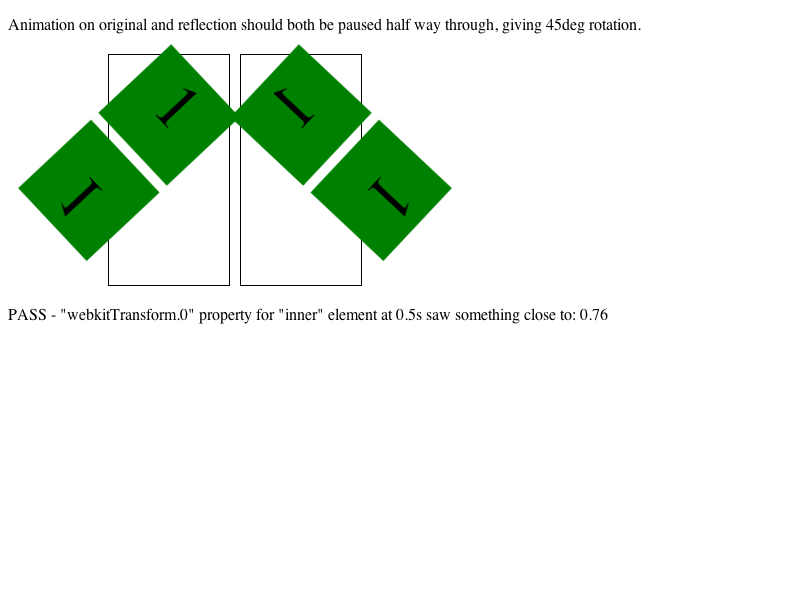
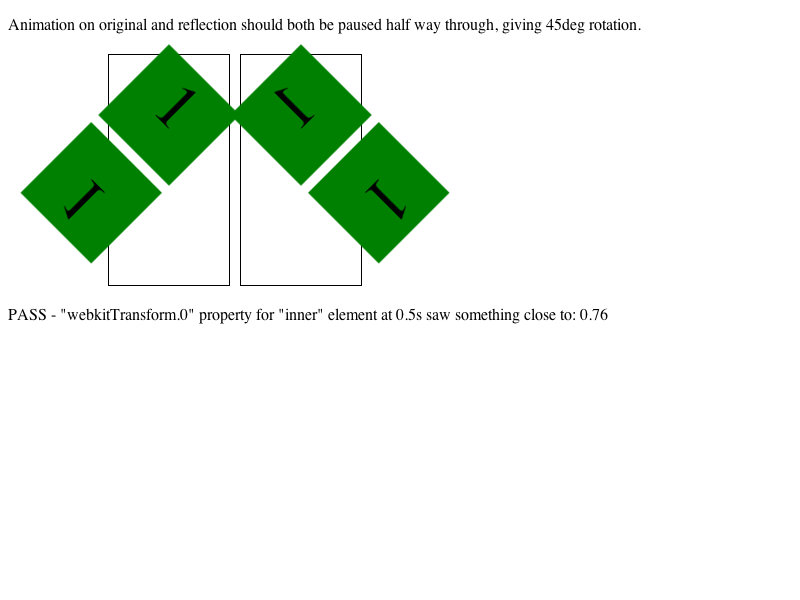
Fix two compositing animation tests to not have flakey pixel results https://bugs.webkit.org/show_bug.cgi?id=83957
Reviewed by Dean Jackson.

Fix these tests to use the pause animation API by providing an animation
name in the expected data. There's no need to start the animations by hand.

* compositing/reflections/animation-inside-reflection.html:
* compositing/reflections/nested-reflection-animated.html:
* platform/mac/compositing/reflections/animation-inside-reflection-expected.png:
* platform/mac/compositing/reflections/nested-reflection-animated-expected.png:

git-svn-id: http://svn.webkit.org/repository/webkit/trunk/LayoutTests@114178 268f45cc-cd09-0410-ab3c-d52691b4dbfc

diff --git a/compositing/reflections/nested-reflection-animated.html b/compositing/reflections/nested-reflection-animated.html
@@ -42,21 +42,18 @@
   <script type="text/javascript" charset="utf-8">
     const expectedValues = [
       // [animation-name, time, element-id, property, expected-value, tolerance]
-      [null, 0.5, "inner", "webkitTransform.0", 0.76, 0.1],
+      ["swing", 0.5, "inner", "webkitTransform.0", 0.76, 0.1],
     ];
     
-    function startAnimation()
-    {
-      document.getElementById('inner').className = 'inner composited animated';
-    }
-
-    runAnimationTest(expectedValues, startAnimation, 'load', false, true /* pixel test */);
+    var pixelTest = true;
+    var disablePauseAPI = false;
+    runAnimationTest(expectedValues, null, null, disablePauseAPI, pixelTest);
   </script>
   </head>
 <body>
   <p>Animation on original and reflection should both be paused half way through, giving 45deg rotation.</p>
   <div class="outer composited">
-    <div id="inner" class="inner composited">
+    <div id="inner" class="inner composited animated">
       1
     </div>
   </div>

diff --git a/compositing/reflections/animation-inside-reflection.html b/compositing/reflections/animation-inside-reflection.html
@@ -50,22 +50,19 @@
   <script type="text/javascript" charset="utf-8">
     const expectedValues = [
       // [animation-name, time, element-id, property, expected-value, tolerance]
-      [null, 0.5, "animated", "webkitTransform.0", 0.76, 0.1],
+      ["swing", 0.5, "animated", "webkitTransform.0", 0.76, 0.1],
     ];
     
-    function startAnimation()
-    {
-      document.getElementById('animated').className = 'animated';
-    }
-
-    runAnimationTest(expectedValues, startAnimation, 'load', false, true /* pixel test */);
+    var pixelTest = true;
+    var disablePauseAPI = false;
+    runAnimationTest(expectedValues, null, null, disablePauseAPI, pixelTest);
   </script>
   </head>
 <body>
   <p>The top left box, and all reflections should be rotated 45deg.</p>
   <div class="outer">
     <div id="inner" class="inner">
-      <div id="animated"></div>
+      <div id="animated" class="animated"></div>
     </div>
   </div>
   <div id="result"></div>
